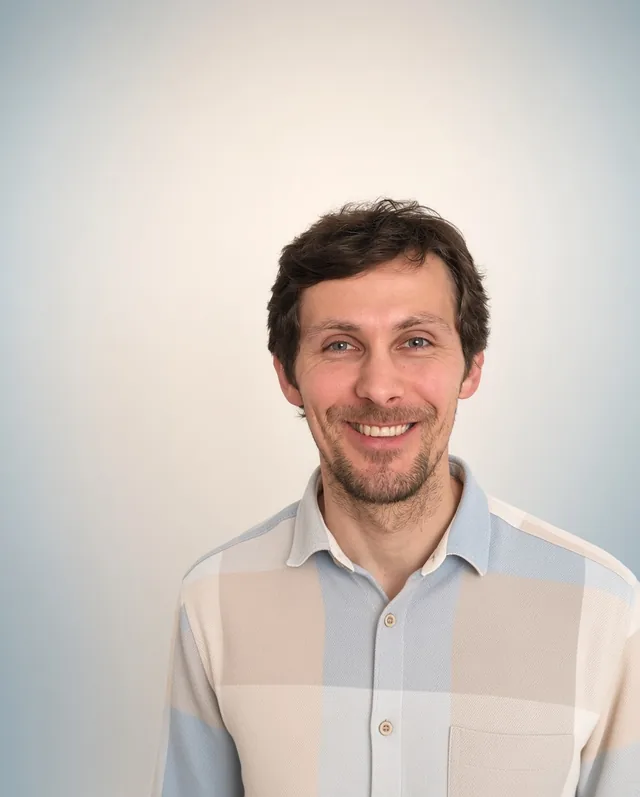
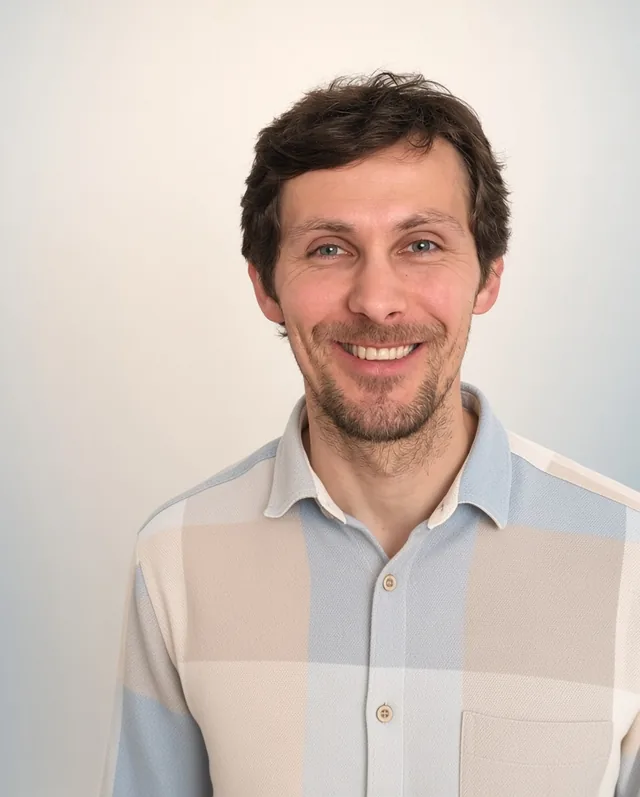
Hero-Zuschnitt mit Patientensilhouette, Portraits angeglichen
- praxis-gespraech.webp jetzt buendig am linken Bildrand zugeschnitten
  (0,0,576,720), damit die angeschnittene Patientensilhouette im
  Vordergrund im Bild bleibt
- andreas-von-loe.webp enger aus dem Original zugeschnitten
  (98,199,850,1136), damit Kopfgroesse und -hoehe zu Isabelles Portrait
  passen; object-cover kann das nicht leisten, es verschiebt nur

Claude-Session: https://claude.ai/code/session_01BtvtZVkinAYmViRPnRt3KH

diff --git a/CLAUDE.md b/CLAUDE.md
@@ -144,10 +144,15 @@ the OS FS tool, **not** ImageMagick). Keep explicit `width`/`height` on `<img>` 
 below-fold photos use `loading="lazy"`; the Team headshots are `loading="eager"` (native lazy was
 unreliable there). Both headshots are 640×797 WebP (q82) derived from the 912×1136 originals in
 `supporting_docs/` — the 0.8 aspect matches the `w-32 h-40` slot, so `object-cover` crops nothing.
+The two were **not shot at the same distance**: `isabelle_headshot.jpg` is used full-frame, while
+`andi_headshot.jpg` is cropped `(98,199,850,1136)` before the resize so both heads end up the same
+size and at the same height in the card (hair top ≈ 12 %, chin ≈ 58 % of the frame). `object-cover`
+cannot fix that — it only pans, it cannot zoom — so re-crop the source if a headshot is replaced.
 
 `images/praxis-gespraech.webp` (576×720, 4:5, q82) is the hero photo added in iteration 5. It comes
 from the image embedded in `Homepage 0709.26.docx` (`word/media/image1.jpg`, 1280×720), cropped
-`(288,0,864,720)`. **It is a stock/AI-looking image, not a photo of the practice or of either
+`(0,0,576,720)` — flush with the left edge, so the out-of-focus patient silhouette in the
+foreground stays in frame; a centred crop drops it. **It is a stock/AI-looking image, not a photo of the practice or of either
 therapist** — keep the alt text neutral so it never reads as a therapist or a patient. The former
 hero photo `flur-hell.webp` moved into the `Raeumlichkeiten` gallery, which therefore runs
 `sm:grid-cols-2 lg:grid-cols-3` with three tiles.
